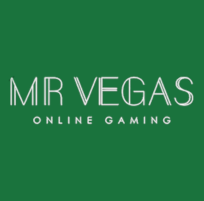
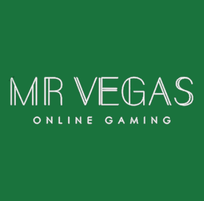
3rd commit

diff --git a/index.html b/index.html
@@ -150,7 +150,7 @@
                                 </div>
                                 <div class="logo-image">
                                     <a href="https://www.mrvegas.com/da/" target="_blank">
-                                        <img src="images/Mrvegas.png" alt="Mrvegas Photo">
+                                        <img src="images/MrVegas.png" alt="Mrvegas Photo">
                                     </a>
                                 </div>
                             </div>
